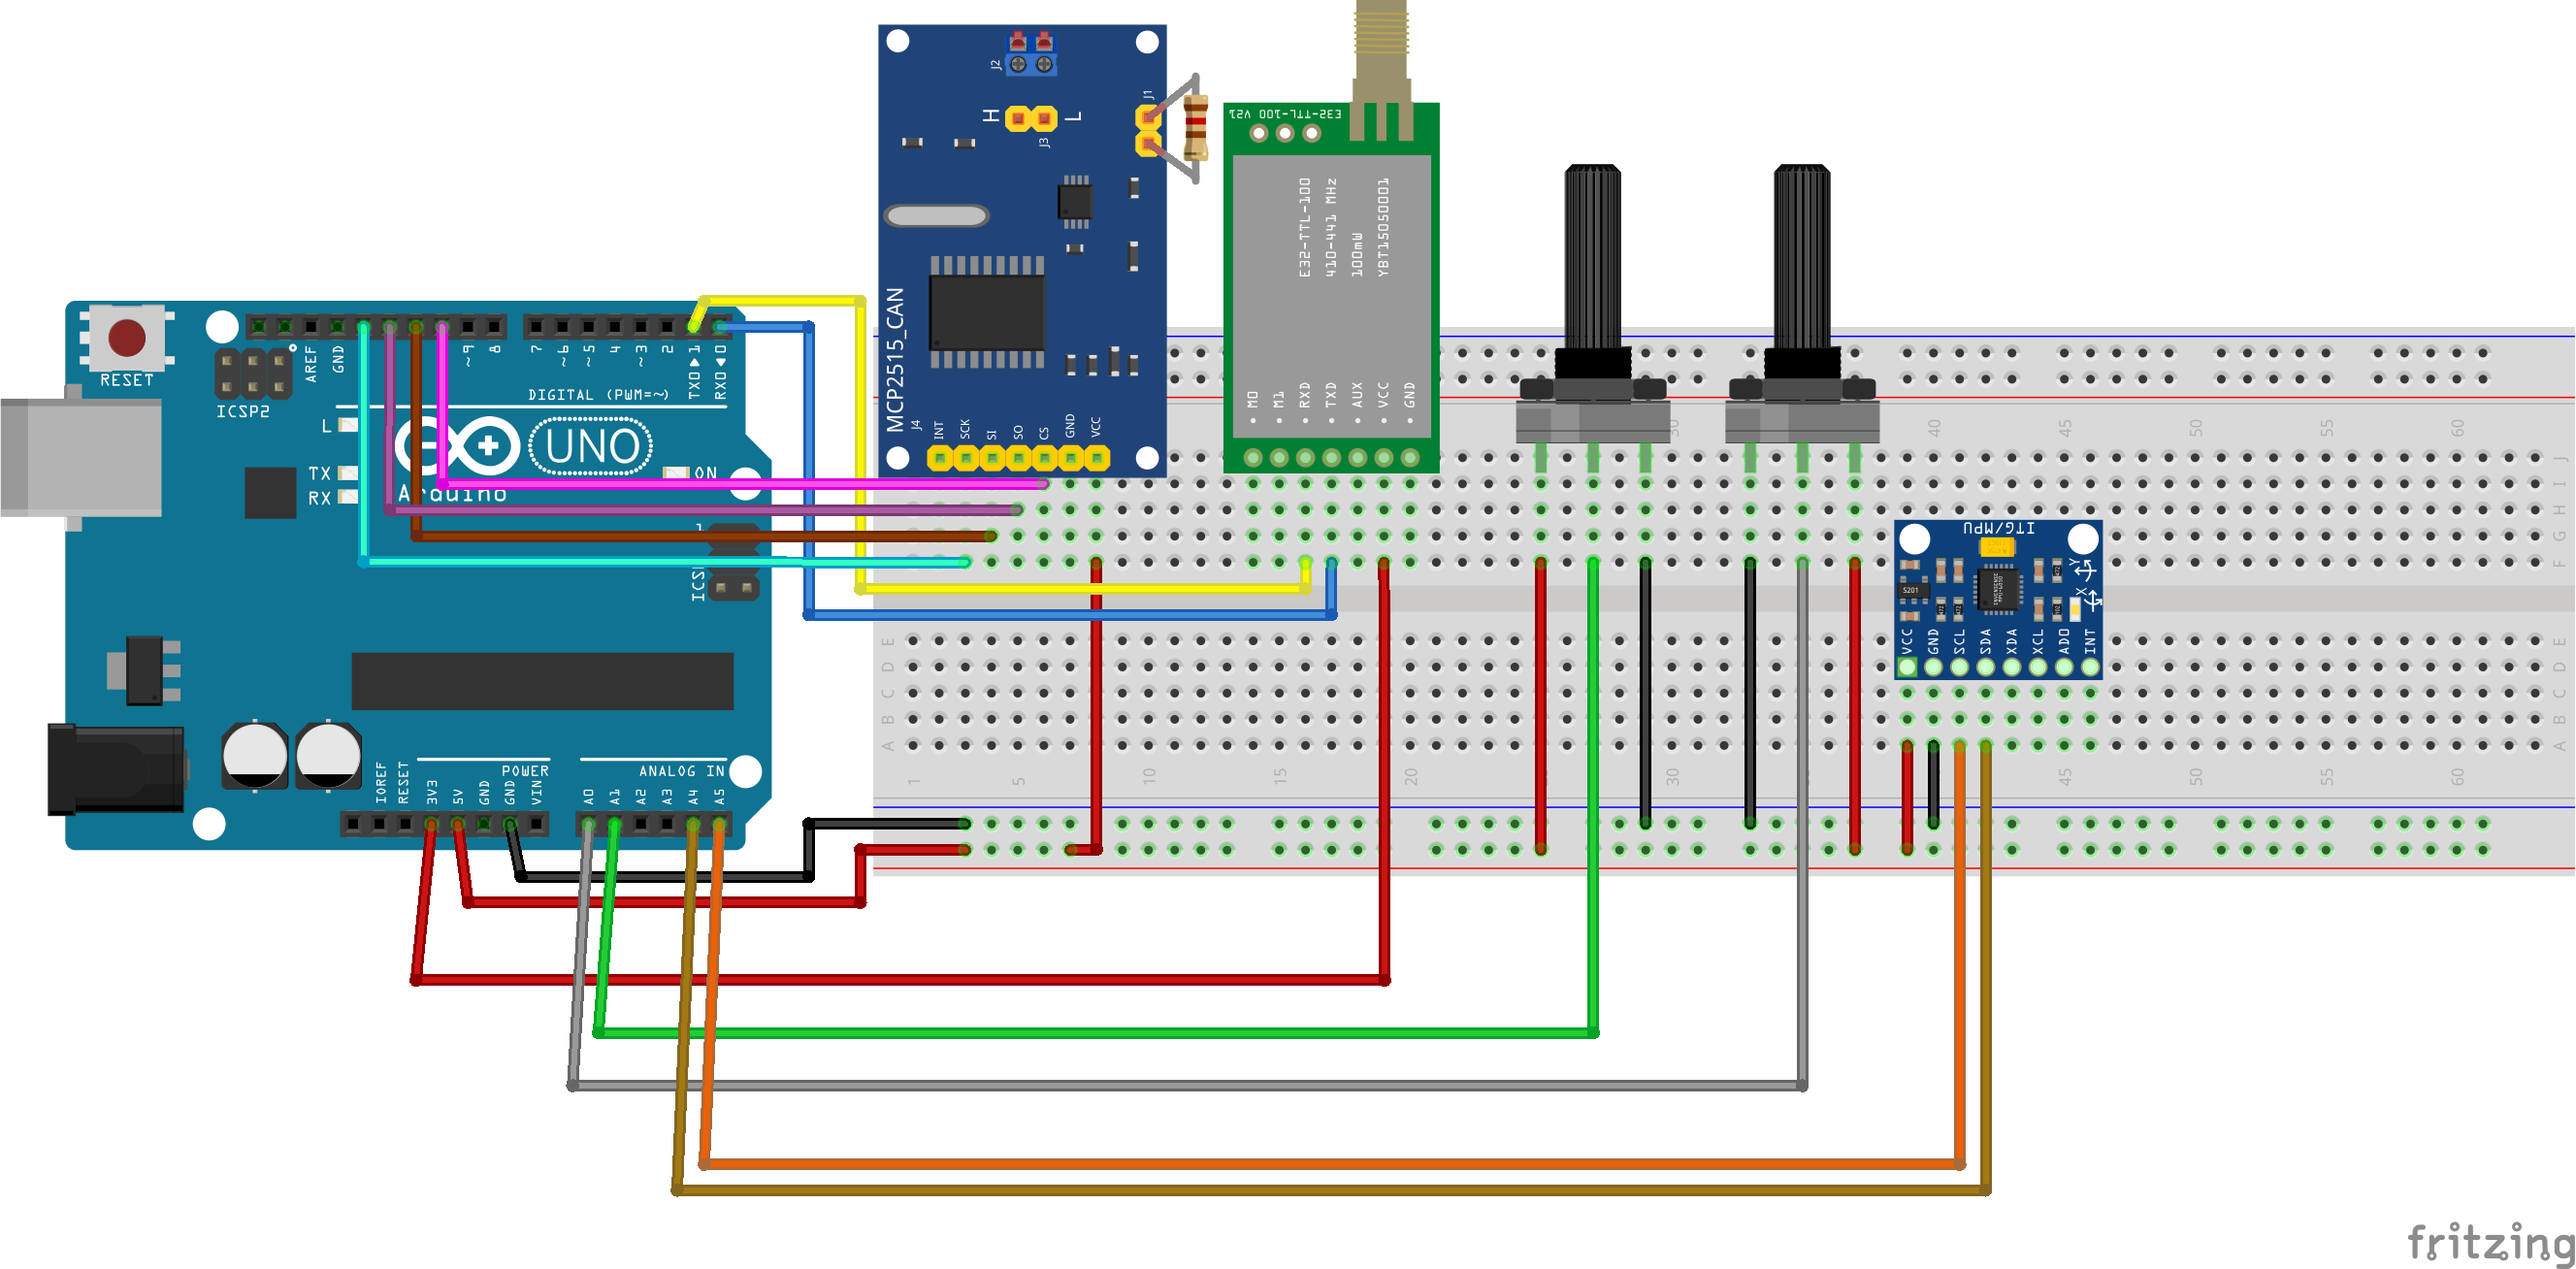
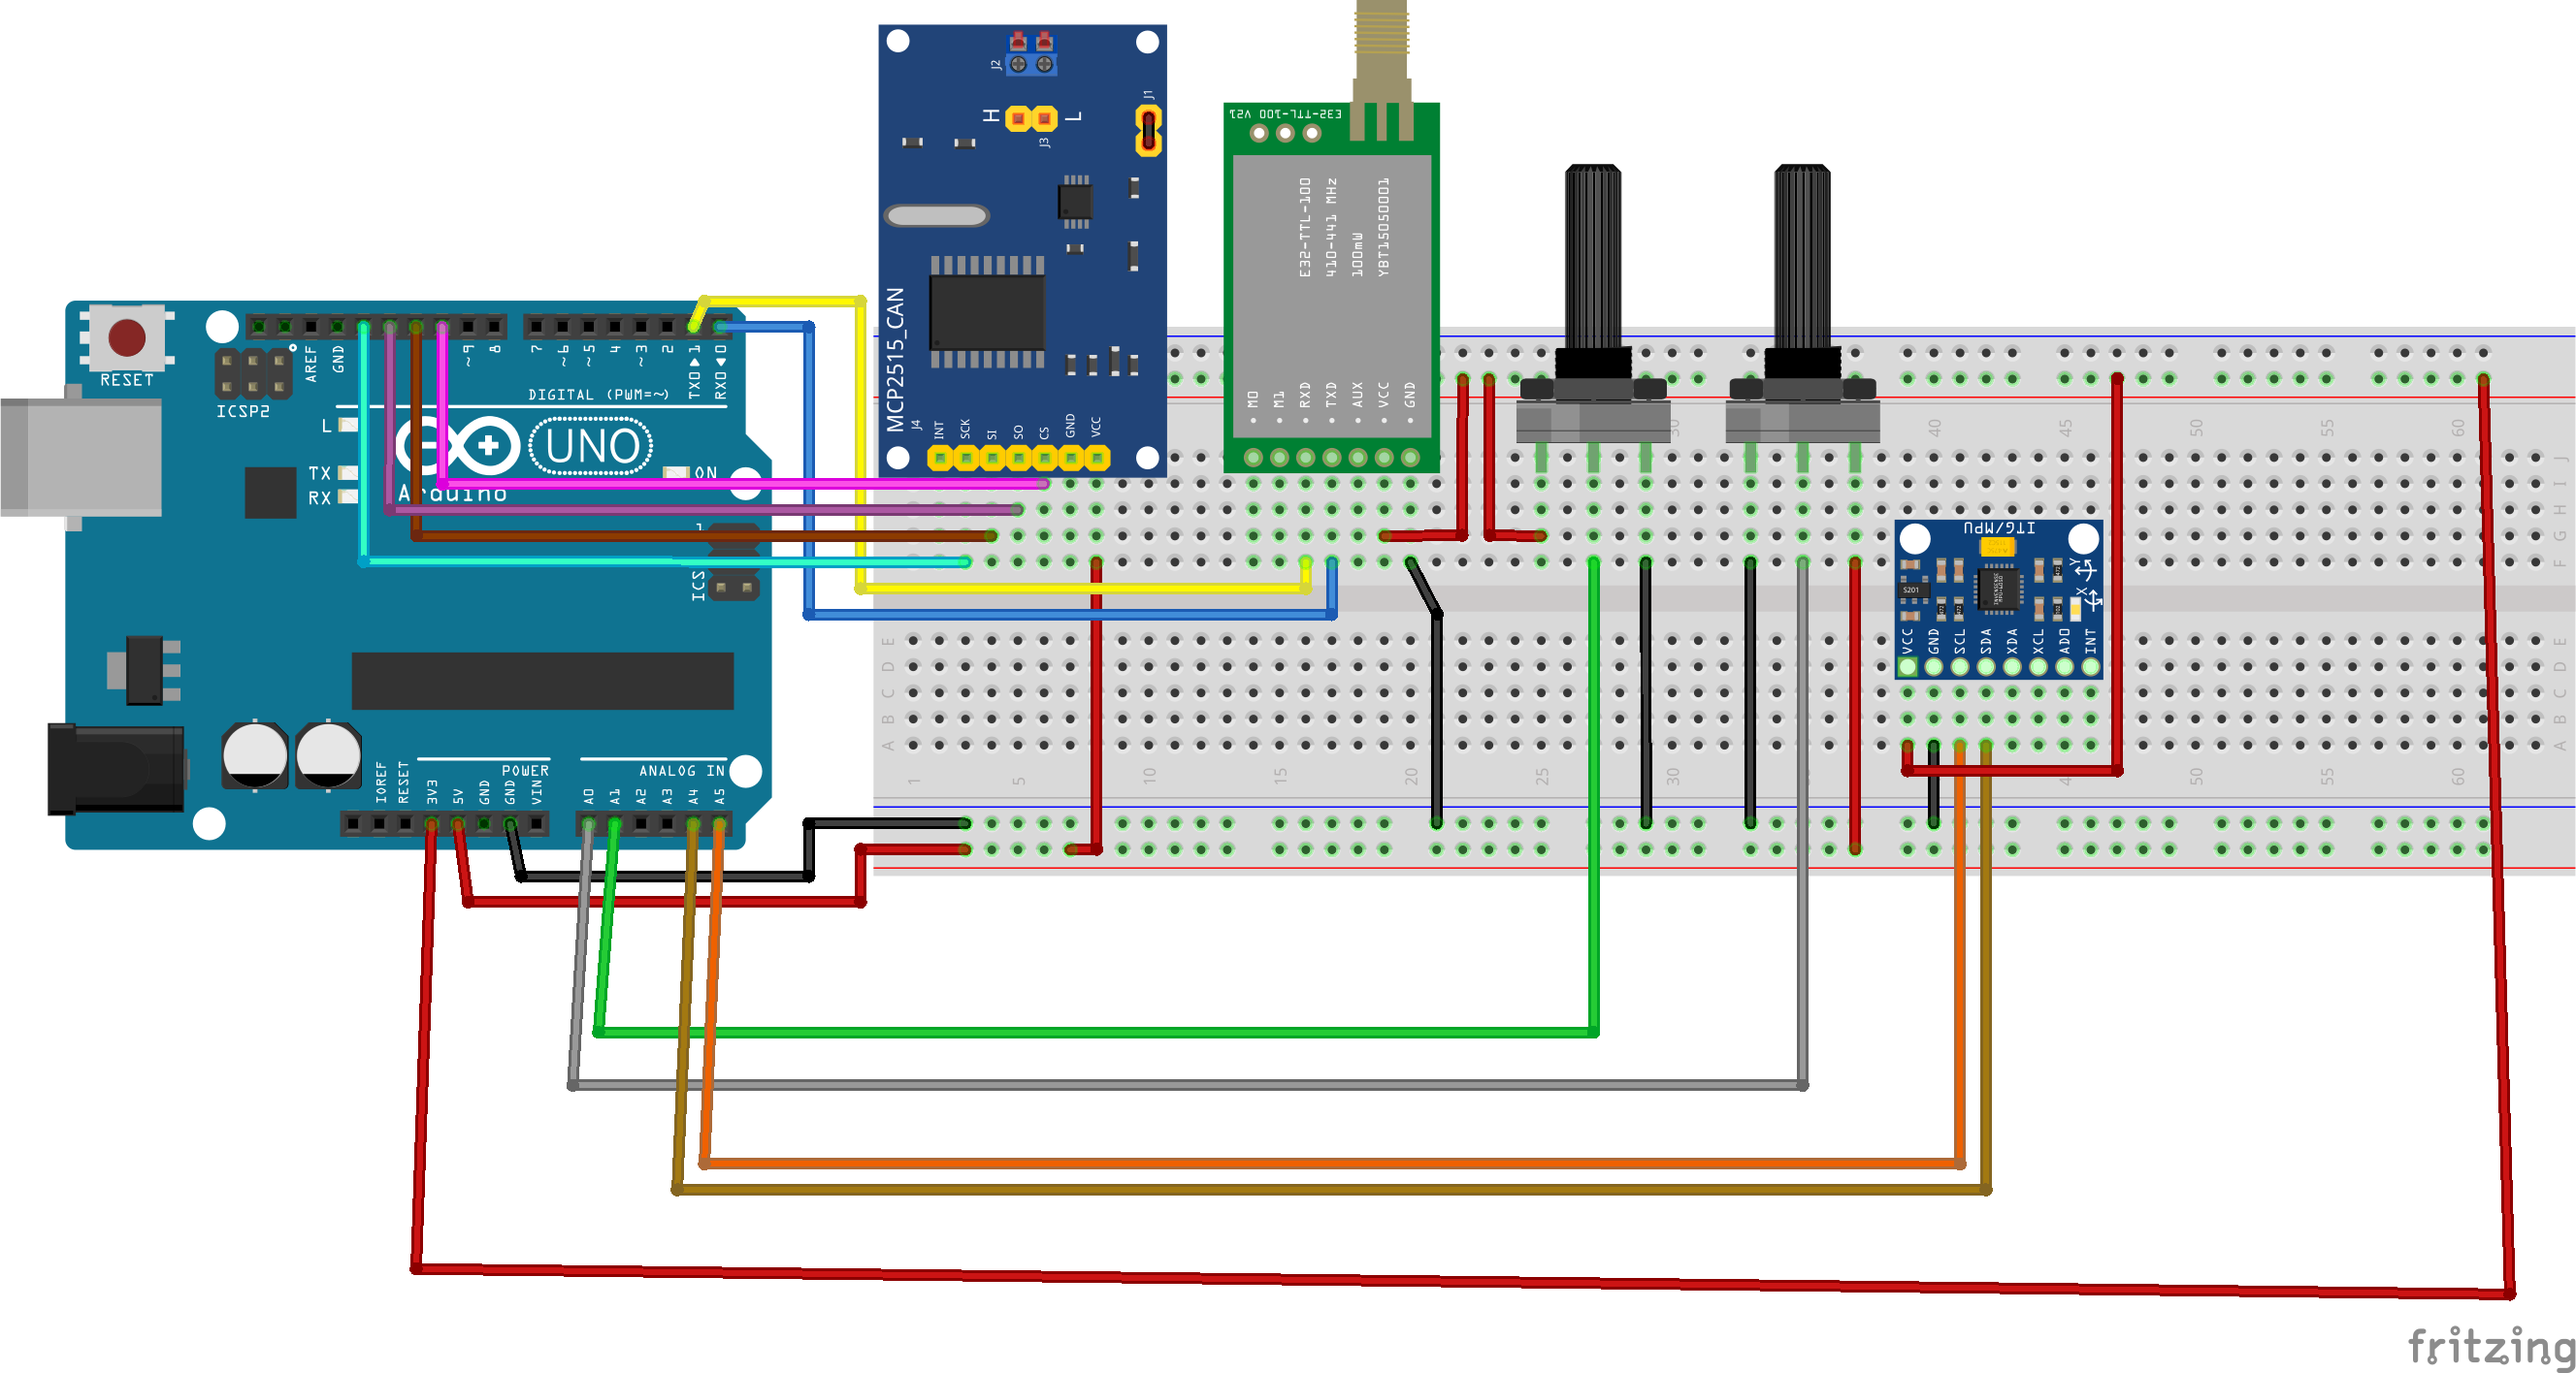
:recycle: refactor: APPS funcionando conforme regulamento!

Changed region(s): [[0.0, 0.0, 1.0, 1.0], [0.0, 0.367, 0.0618, 0.4281], [0.5868, 0.1223, 0.6486, 0.1529]]

diff --git a/include/sensors/APPS.h b/include/sensors/APPS.h
@@ -18,8 +18,8 @@
  * dos dois percentuais. Se a diferença for maior ou igual a 10%, marca o valor como inválido.
  * Em seguida, a classe notifica um mediador sobre a alteração ou a implausibilidade.
  * 
- * @param pin_1 O pino analógico para o primeiro potenciômetro (0-5V).
- * @param pin_2 O pino analógico para o segundo potenciômetro (5-0V).
+ * @param pin_1 O pino analógico para o primeiro potenciômetro (0-3.3V).
+ * @param pin_2 O pino analógico para o segundo potenciômetro (0-5V).
  * 
  * 
  * @fn APPS::Potentiometer(int pin_1, int pin_2)
@@ -35,8 +35,8 @@
  */
 class Potentiometer : public Component {
 private:
-    int pin_1; // Pino analógico do potenciômetro 1 (0-5V)
-    int pin_2; // Pino analógico do potenciômetro 2 (5-0V)
+    int pin_1; // Pino analógico do potenciômetro 1 (0-3.3V).
+    int pin_2; // Pino analógico do potenciômetro 2 (0-5V)
 
 public:
     Potentiometer(int pin_1, int pin_2) : pin_1(pin_1), pin_2(pin_2) {}
@@ -46,8 +46,8 @@ public:
         int pot2Value = analogRead(pin_2);
 
         // Cálculo das porcentagens (de 0 a 100%)
-        float pot1Percent = (pot1Value / 1023.0) * 100.0;
-        float pot2Percent = (1.0 - (pot2Value / 1023.0)) * 100.0; // Invertendo o valor do segundo potenciômetro
+        float pot1Percent = (pot1Value / 675.0) * 100.0;
+        float pot2Percent = (pot2Value / 1023.0) * 100.0;
 
         // Calculando a diferença entre os dois potenciômetros
         float difference = abs(pot1Percent - pot2Percent);
